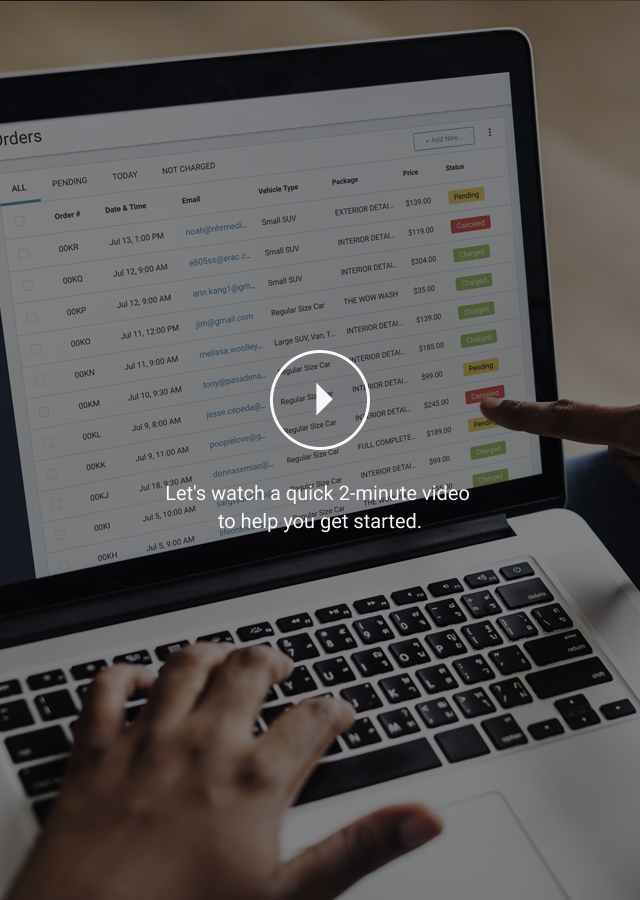
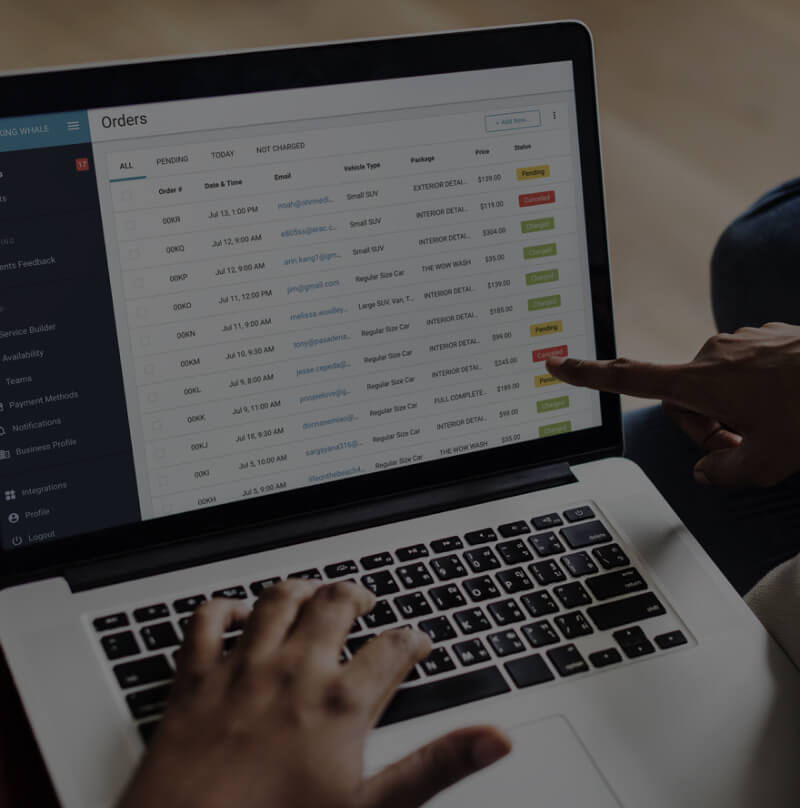
123

diff --git a/style.css b/style.css
@@ -1,1 +1,1 @@
-@import url(https://fonts.googleapis.com/css?family=Roboto);*{margin:0;padding:0;font-family:Roboto,sans-serif}body{font-size:13px}a{color:#0D99B7;text-decoration:none}p{color:#666}h2{font-size:18px}.left-wrapper{float:left;width:50%;padding:20px 0;box-sizing:border-box}.content-wrapper{min-width:360px;max-width:360px;margin:0 auto}.header{position:relative;height:40px;line-height:26px}.login{position:absolute;top:8px;right:0}.login span{color:#666}.login .login-image{position:relative;top:5px}#logo{margin-top:5px;width:60px;height:30px}.free-trial{margin:40px 0}.free-trial h3{font-size:18px;margin-bottom:10px}.free-trial p{font-size:12px;color:#666}.material-input{position:relative;margin-bottom:20px}.material-input .input-text{position:absolute;top:26px;left:0}.material-input label{color:#666;transition:all .5s}.material-input input{padding-top:15px;box-sizing:border-box}.material-input input:focus{border-bottom:1px solid #0D99B7}.material-input input:focus~label,.material-input input:valid~label{top:0;font-size:12px;color:#0D99B7}input,input:focus{width:100%;height:50px;border:transparent;border-bottom:1px solid #DADADA;outline:0;font-size:13px}#domain-name{width:100%;max-width:245px;margin-bottom:0;text-align:right}.ref-text{display:inline-block;color:#666;margin-top:10px}.location{display:flex;justify-content:space-between;margin-top:35px;margin-bottom:35px}.country-drop{width:100%;margin-right:20px}.country-drop:before,.currency-drop:before,.timezone-drop:before{content:"Country";position:absolute;top:-13px;left:0;font-size:12px;color:#666}.currency-drop:before{content:"Currency"}.timezone-drop:before{content:"Timezone"}select,select:focus{height:40px;width:100%;border:transparent;border-bottom:1px solid #DADADA;outline:0;background:0 0;line-height:20px;font-size:14px;color:#111}.dropdown-wrap{position:relative}.dropdown-wrap:after{content:' ';display:inline-block;width:18px;height:15px;position:absolute;top:14px;right:0;background:#fff}.arrow{position:absolute;top:12px;right:0;z-index:1}button,button:focus{width:360px;height:60px;padding:15px 30px;background:#0D99B7;border:1px solid rgba(0,0,0,.1);outline:0;box-sizing:border-box;border-radius:3px;font-size:16px;color:#fff;cursor:pointer}.complete{margin:50px 0 10px 0}.right-wrapper{position:fixed;top:0;right:0;float:right;width:50%;height:100vh;background-image:url(images/registration-main.jpg);background-size:cover;background-position:center;background-repeat:no-repeat}.right-wrapper.second-image{background-image:url(images/reg-main-2.jpg)}.second-page{margin-top:276px}.second-page p{margin:5px 0 10px}.footer{margin-top:60px}.clear-fix{clear:both}@media only screen and (max-width:768px){.right-wrapper{display:none}.left-wrapper{width:100%;clear:both}.second-page{margin-top:180px}}@media only screen and (max-width:365px){.left-wrapper{padding:20px}.content-wrapper{max-width:280px;min-width:0}button{width:100%;max-width:320px}}
+@import url(https://fonts.googleapis.com/css?family=Roboto);*{margin:0;padding:0;font-family:Roboto,sans-serif}body{font-size:13px}a{color:#0D99B7;text-decoration:none}p{color:#666}h2{font-size:18px}.left-wrapper{float:left;width:50%;padding:20px 0;box-sizing:border-box}.content-wrapper{min-width:360px;max-width:360px;margin:0 auto}.header{position:relative;height:40px;line-height:26px}.login{position:absolute;top:8px;right:0}.login span{color:#666}.login .login-image{position:relative;top:5px}#logo{margin-top:5px;width:60px;height:30px}.free-trial{margin:40px 0}.free-trial h3{font-size:18px;margin-bottom:10px}.free-trial p{font-size:12px;color:#666}.material-input{position:relative;margin-bottom:20px}.material-input .input-text{position:absolute;top:26px;left:0}.material-input label{color:#666;transition:all .5s}.material-input input{padding-top:15px;box-sizing:border-box}.material-input input:focus{border-bottom:1px solid #0D99B7}.material-input input:focus~label,.material-input input:valid~label{top:0;font-size:12px;color:#0D99B7}input,input:focus{width:100%;height:50px;border:transparent;border-bottom:1px solid #DADADA;outline:0;font-size:13px}#domain-name{width:100%;max-width:245px;margin-bottom:0;text-align:right}.ref-text{display:inline-block;color:#666;margin-top:10px}.location{display:flex;justify-content:space-between;margin-top:35px;margin-bottom:35px}.country-drop{width:100%;margin-right:20px}.country-drop:before,.currency-drop:before,.timezone-drop:before{content:"Country";position:absolute;top:-13px;left:0;font-size:12px;color:#666}.currency-drop:before{content:"Currency"}.timezone-drop:before{content:"Timezone"}select,select:focus{height:40px;width:100%;border:transparent;border-bottom:1px solid #DADADA;outline:0;background:0 0;line-height:20px;font-size:14px;color:#111;appearance:none;-webkit-appearance:none;border-radius:0}.dropdown-wrap{position:relative}.dropdown-wrap:after{content:' ';display:inline-block;width:18px;height:15px;position:absolute;top:14px;right:0;background:#fff}.arrow{position:absolute;top:12px;right:0;z-index:1}button,button:focus{width:360px;height:60px;padding:15px 30px;background:#0D99B7;border:1px solid rgba(0,0,0,.1);outline:0;box-sizing:border-box;border-radius:3px;font-size:16px;color:#fff;cursor:pointer}.complete{margin:50px 0 10px 0}.right-wrapper{position:fixed;top:0;right:0;float:right;width:50%;height:100vh;background-image:url(images/registration-main.jpg);background-size:cover;background-position:center;background-repeat:no-repeat}.right-wrapper.second-image{background-image:url(images/reg-main-2.jpg)}.right-wrapper .right-content{position:relative;top:50%;left:50%;margin-left:-155px;margin-top:-88px;max-width:310px;text-align:center}.right-wrapper .right-content p{color:#fff;line-height:22px;margin-top:30px}.second-page{margin-top:276px}.second-page p{margin:5px 0 10px}.footer{margin-top:60px}.clear-fix{clear:both}@media only screen and (max-width:768px){.right-wrapper{display:none}.left-wrapper{width:100%;clear:both}.second-page{margin-top:180px}}@media only screen and (max-width:365px){.left-wrapper{padding:20px}.content-wrapper{max-width:280px;min-width:0}button{width:100%;max-width:320px}}

diff --git a/style.less b/style.less
@@ -145,6 +145,9 @@ select, select:focus {
 	line-height: 20px;
 	font-size: 14px;
 	color: #111111;
+	appearance: none;
+	-webkit-appearance: none;
+	border-radius: 0;
 }
 .dropdown-wrap {
 	position: relative;
@@ -196,6 +199,20 @@ button, button:focus {
     &.second-image {
     	background-image: url(images/reg-main-2.jpg);
     }
+    .right-content {
+    	position: relative;
+    	top: 50%;
+    	left: 50%;
+    	margin-left: -155px;
+    	margin-top: -88px;
+    	max-width: 310px;
+    	text-align: center;
+    }
+    .right-content p {
+    	color: #fff;
+    	line-height: 22px;
+    	margin-top: 30px;
+    }
 }
 /* ==================  OTHER SCREENS ==================  */
 .second-page {
@@ -235,7 +252,6 @@ button, button:focus {
 		max-width: 320px;
 	}
 }
-
 
 
 

diff --git a/index-2.html b/index-2.html
@@ -40,6 +40,13 @@
 		</div>
 		<!-- ============================== RIGHT SIDE WITH IMAGE ============================== -->
 		<div class="right-wrapper second-image">
+			<div class="right-content">
+				<svg width="100" height="100" viewBox="0 0 100 100" fill="none" xmlns="http://www.w3.org/2000/svg">
+					<circle cx="50" cy="50" r="48.5" stroke="#F6F7F8" stroke-width="3"/>
+					<path fill-rule="evenodd" clip-rule="evenodd" d="M0 0L16.3399 16.3399L32.6797 0H0Z" transform="translate(46.4052 65.3594) rotate(-90)" fill="#F6F7F8"/>
+				</svg>
+				<p>Let's watch a quick 2-minute video to help you get started.</p>
+			</div>
 		</div>
 		<div class="clear-fix"></div>
 	</div>
